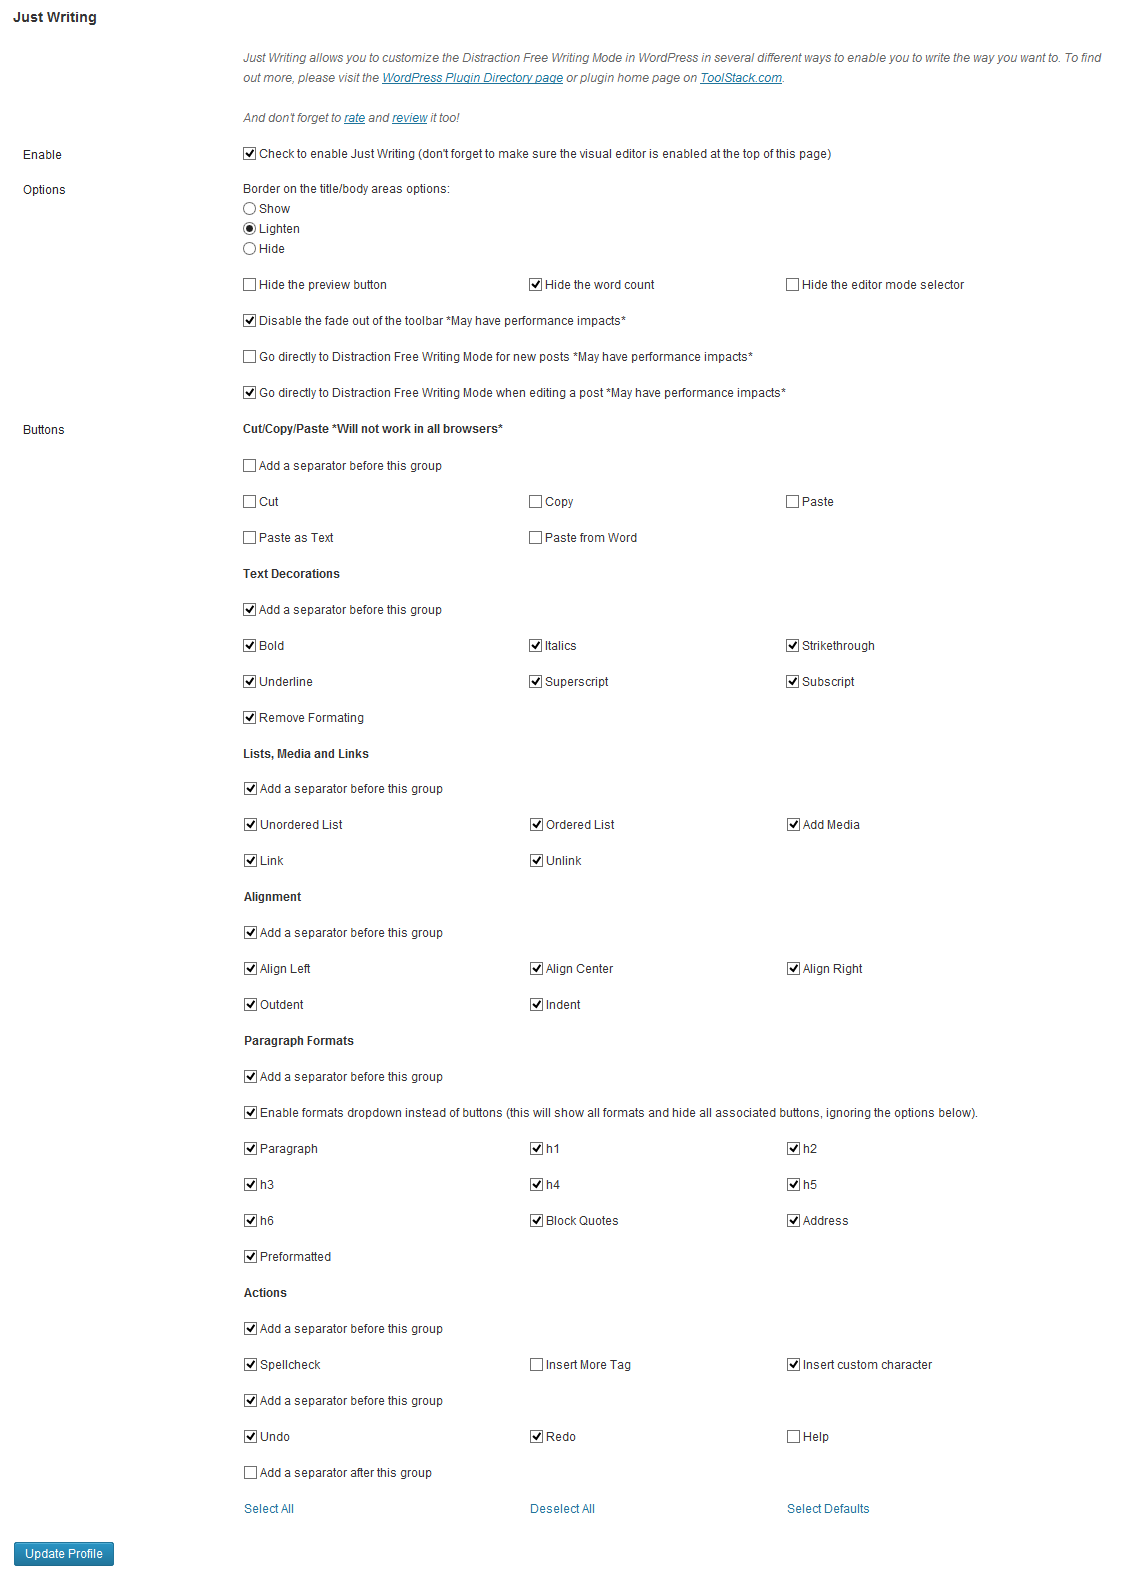
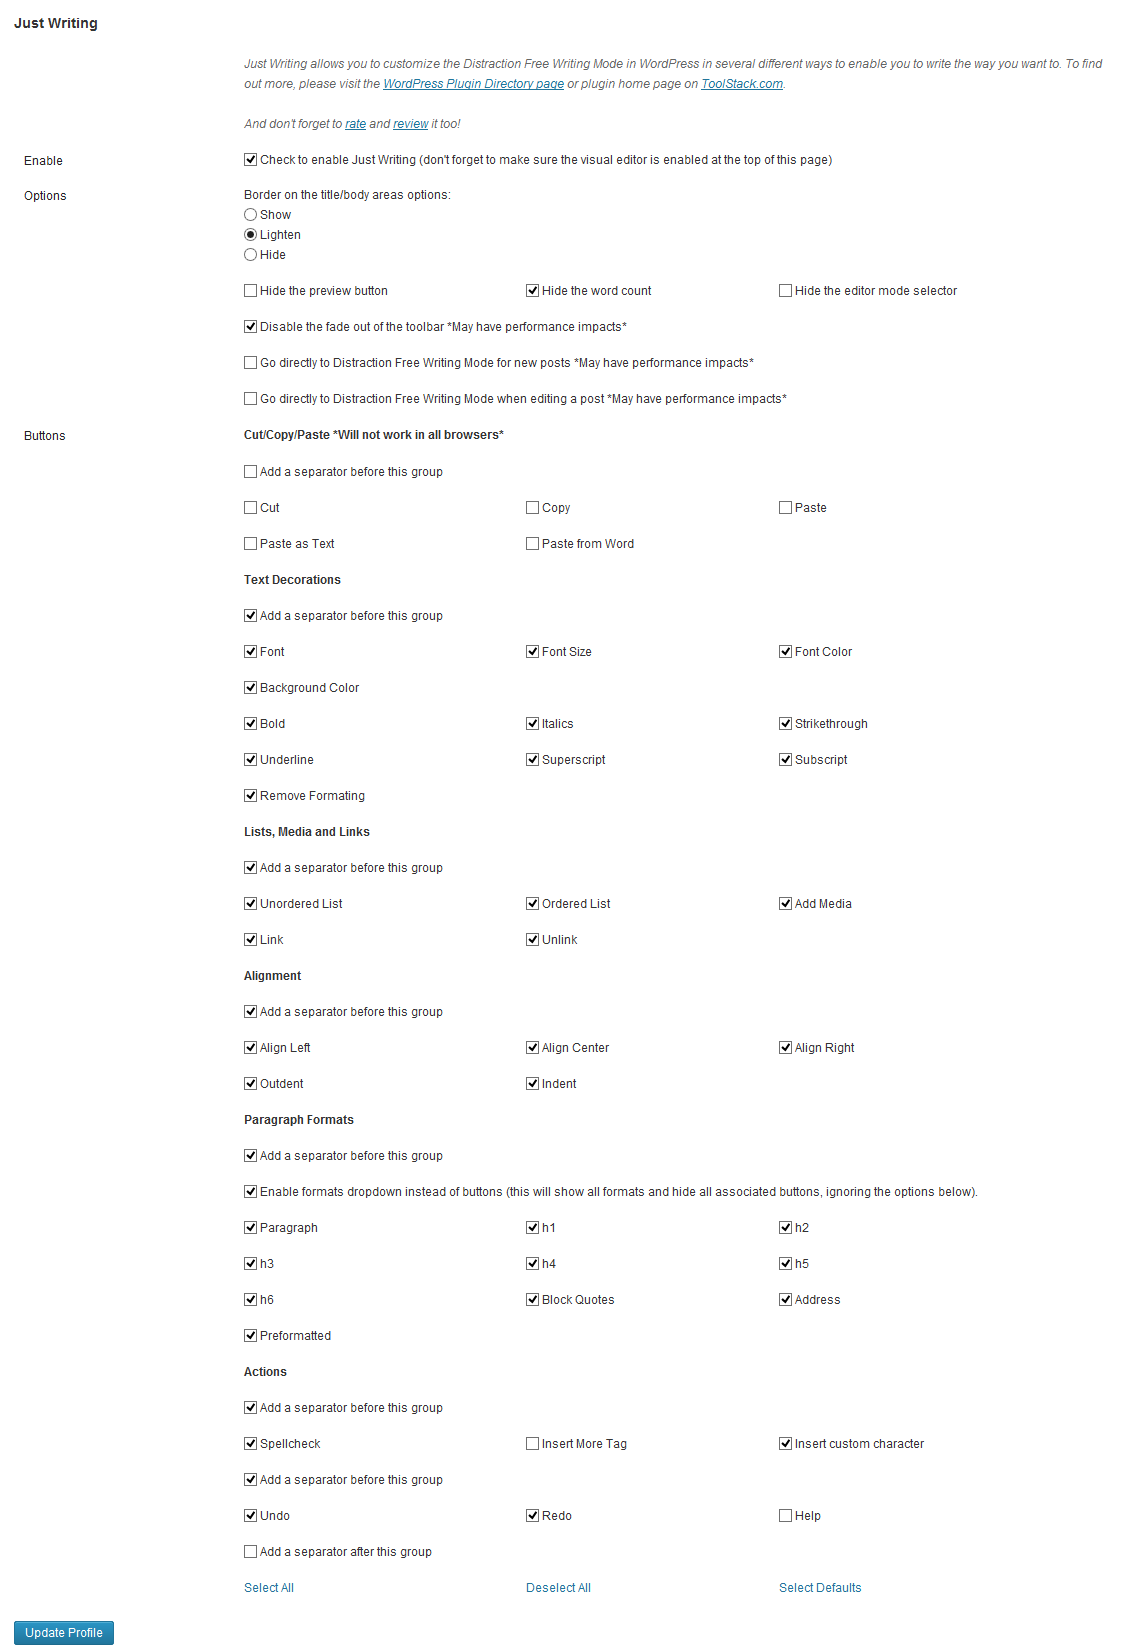
- completed adding support for font, size and color options

diff --git a/just-writing.js b/just-writing.js
@@ -136,7 +136,7 @@ function JustWriting()
 			{
 			(	function($) 
 					{
-					$('#wp_fs_Paragraph').replaceWith( "<select style='margin-left: 5px; margin-right: 5px;' name=JustWritingFormats id=JustWritingFormats onchange=JustWritingFormatSelectChange()><option>Paragraph</option><option>Address</option><option>Block Quotes</option><option>Preformatted</option><option>Heading 1</option><option>Heading 2</option><option>Heading 3</option><option>Heading 4</option><option>Heading 5</option><option>Heading 6</option></select>" );
+					$('#wp_fs_Paragraph').replaceWith( "<select style='margin-left: 5px; margin-right: 5px;' name=JustWritingFormats id=JustWritingFormats onchange=JustWritingFormatSelectChange()><option>[Style]</option><option>Paragraph</option><option>Address</option><option>Block Quotes</option><option>Preformatted</option><option>Heading 1</option><option>Heading 2</option><option>Heading 3</option><option>Heading 4</option><option>Heading 5</option><option>Heading 6</option></select>" );
 					}(jQuery)
 			);
 			}
@@ -144,24 +144,31 @@ function JustWriting()
 		// Add the font listbox
 		(	function($) 
 				{
-				$('#wp_fs_fontselect').replaceWith( "<select style='margin-left: 5px; margin-right: 5px;' name=JustWritingFonts id=JustWritingFonts onchange=JustWritingFontSelectChange()><option>Andale Mono</option><option SELECTED>Arial</option><option>Arial Black</option><option>Book Antiqua</option><option>Comic Sans MS</option><option>Courier New</option><option>Georgia</option><option>Helvetica</option><option>Impact</option><option>Symbol</option><option>Tahoma</option><option>Terminal</option><option>Times New Roman</option><option>Trebuchet MS</option><option>Verdana</option><option>Webdings</option><option>Wingdings</option></select>" );
+				$('#wp_fs_fontselect').replaceWith( "<select style='margin-left: 5px; margin-right: 5px;' name=JustWritingFonts id=JustWritingFonts onchange=JustWritingFontSelectChange()><option>[Font]</option><option>Andale Mono</option><option>Arial</option><option>Arial Black</option><option>Book Antiqua</option><option>Comic Sans MS</option><option>Courier New</option><option>Georgia</option><option>Helvetica</option><option>Impact</option><option>Symbol</option><option>Tahoma</option><option>Terminal</option><option>Times New Roman</option><option>Trebuchet MS</option><option>Verdana</option><option>Webdings</option><option>Wingdings</option></select>" );
 				}(jQuery)
 		);
 		
 		// Add the font size listbox
 		(	function($) 
 				{
-				$('#wp_fs_fontsize').replaceWith( "<select style='margin-left: 5px; margin-right: 5px;' name=JustWritingFontSize id=JustWritingFontSize onchange=JustWritingFontSizeSelectChange()><option>6</option><option>8</option><option>10</option><option>12</option><option>14</option><option>16</option><option>18</option><option>20</option><option>22</option><option>24</option><option>28</option><option>32</option><option>36</option><option>40</option><option>44</option><option>48</option><option>52</option><option>62</option><option>72</option></select>" );
+				$('#wp_fs_fontsize').replaceWith( "<select style='margin-left: 5px; margin-right: 5px;' name=JustWritingFontSize id=JustWritingFontSize onchange=JustWritingFontSizeSelectChange()><option>[Font Size]</option><option>6</option><option>8</option><option>10</option><option>12</option><option>14</option><option>16</option><option>18</option><option>20</option><option>22</option><option>24</option><option>28</option><option>32</option><option>36</option><option>40</option><option>44</option><option>48</option><option>52</option><option>62</option><option>72</option></select>" );
 				}(jQuery)
 		);
 
 		// Add the font color listbox
 		(	function($) 
 				{
-				$('#wp_fs_fontcolor').replaceWith( "<select style='margin-left: 5px; margin-right: 5px;' name=JustWritingFontColor id=JustWritingFontColor onchange=JustWritingFontColorSelectChange()><option>Black</option><option>Blue</option><option>Blue (Dark)</option><option>Blue (Light)</option><option>Brown</option><option>Cyan</option><option>Green</option><option>Grey</option><option>Lime</option><option>Magenta</option><option>Maroon</option><option>Olive</option><option>Orange</option><option>Purple</option><option>Red</option><option>Silver</option><option>White</option><option>Yellow</option></select>" );
+				$('#wp_fs_fontcolor').replaceWith( "<select style='margin-left: 5px; margin-right: 5px;' name=JustWritingFontColor id=JustWritingFontColor onchange=JustWritingFontColorSelectChange()><option>[Font Color]</option><option>Black</option><option>Blue</option><option>Blue (Dark)</option><option>Blue (Light)</option><option>Brown</option><option>Cyan</option><option>Green</option><option>Grey</option><option>Lime</option><option>Magenta</option><option>Maroon</option><option>Olive</option><option>Orange</option><option>Purple</option><option>Red</option><option>Silver</option><option>White</option><option>Yellow</option></select>" );
 				}(jQuery)
 		);
 
+		// Add the background color listbox
+		(	function($) 
+				{
+				$('#wp_fs_backgroundcolor').replaceWith( "<select style='margin-left: 5px; margin-right: 5px;' name=JustWritingBackgroundColor id=JustWritingBackgroundColor onchange=JustWritingBackgroundColorSelectChange()><option>[BG Color]</option><option>Black</option><option>Blue</option><option>Blue (Dark)</option><option>Blue (Light)</option><option>Brown</option><option>Cyan</option><option>Green</option><option>Grey</option><option>Lime</option><option>Magenta</option><option>Maroon</option><option>Olive</option><option>Orange</option><option>Purple</option><option>Red</option><option>Silver</option><option>White</option><option>Yellow</option></select>" );
+				}(jQuery)
+		);
+		
 		var marginside = 'margin-left';
 		if( rtl == 1 )
 			{
@@ -231,98 +238,129 @@ function JustWriting()
 
 function JustWritingFormatSelectChange()
 {
-	var FormatListbox = document.getElementById('JustWritingFormats');
-	var index = FormatListbox.selectedIndex;
+	var Listbox = document.getElementById('JustWritingFormats');
+	var index = Listbox.selectedIndex;
 	
-	if( index == 0 ) { tinyMCE.execCommand('FormatBlock', false, 'p'); }
-	if( index == 1 ) { tinyMCE.execCommand('FormatBlock', false, 'address'); }
-	if( index == 2 ) { fullscreen.blockquote(); }
-	if( index == 3 ) { tinyMCE.execCommand('FormatBlock', false, 'pre'); }
-	if( index == 4 ) { tinyMCE.execCommand('FormatBlock', false, 'h1'); }
-	if( index == 5 ) { tinyMCE.execCommand('FormatBlock', false, 'h2'); }
-	if( index == 6 ) { tinyMCE.execCommand('FormatBlock', false, 'h3'); }
-	if( index == 7 ) { tinyMCE.execCommand('FormatBlock', false, 'h4'); }
-	if( index == 8 ) { tinyMCE.execCommand('FormatBlock', false, 'h5'); }
-	if( index == 9 ) { tinyMCE.execCommand('FormatBlock', false, 'h6'); }
+	if( index == 1 ) { tinyMCE.execCommand('FormatBlock', false, 'p'); }
+	if( index == 2 ) { tinyMCE.execCommand('FormatBlock', false, 'address'); }
+	if( index == 3 ) { fullscreen.blockquote(); }
+	if( index == 4 ) { tinyMCE.execCommand('FormatBlock', false, 'pre'); }
+	if( index == 5 ) { tinyMCE.execCommand('FormatBlock', false, 'h1'); }
+	if( index == 6 ) { tinyMCE.execCommand('FormatBlock', false, 'h2'); }
+	if( index == 7 ) { tinyMCE.execCommand('FormatBlock', false, 'h3'); }
+	if( index == 8 ) { tinyMCE.execCommand('FormatBlock', false, 'h4'); }
+	if( index == 9 ) { tinyMCE.execCommand('FormatBlock', false, 'h5'); }
+	if( index == 10 ) { tinyMCE.execCommand('FormatBlock', false, 'h6'); }
 	
+	Listbox.selectedIndex = 0;	
 }
 
 function JustWritingFontSelectChange()
 {
-	var FontsListbox = document.getElementById('JustWritingFonts');
-	var index = FontsListbox.selectedIndex;
+	var Listbox = document.getElementById('JustWritingFonts');
+	var index = Listbox.selectedIndex;
 	
-	if( index == 0 ) { tinyMCE.execCommand('FontName', false, 'Andale Mono'); }
-	if( index == 1 ) { tinyMCE.execCommand('FontName', false, 'Arial'); }
-	if( index == 2 ) { tinyMCE.execCommand('FontName', false, 'Arial Black'); }
-	if( index == 3 ) { tinyMCE.execCommand('FontName', false, 'Book Antiqua'); }
-	if( index == 4 ) { tinyMCE.execCommand('FontName', false, 'Comic Sans MS'); }
-	if( index == 5 ) { tinyMCE.execCommand('FontName', false, 'Courier New'); }
-	if( index == 6 ) { tinyMCE.execCommand('FontName', false, 'Georgia'); }
-	if( index == 7 ) { tinyMCE.execCommand('FontName', false, 'Helvetica'); }
-	if( index == 8 ) { tinyMCE.execCommand('FontName', false, 'Impact'); }
-	if( index == 9 ) { tinyMCE.execCommand('FontName', false, 'Symbol'); }
-	if( index == 10 ) { tinyMCE.execCommand('FontName', false, 'Tahoma'); }
-	if( index == 11 ) { tinyMCE.execCommand('FontName', false, 'Terminal'); }
-	if( index == 12 ) { tinyMCE.execCommand('FontName', false, 'Times New Roman'); }
-	if( index == 13 ) { tinyMCE.execCommand('FontName', false, 'Trebuchet MS'); }
-	if( index == 14 ) { tinyMCE.execCommand('FontName', false, 'Verdana'); }
-	if( index == 15 ) { tinyMCE.execCommand('FontName', false, 'Webdings'); }
-	if( index == 16 ) { tinyMCE.execCommand('FontName', false, 'Wingdings'); }
+	if( index == 1 ) { tinyMCE.execCommand('FontName', false, 'Andale Mono'); }
+	if( index == 2 ) { tinyMCE.execCommand('FontName', false, 'Arial'); }
+	if( index == 3 ) { tinyMCE.execCommand('FontName', false, 'Arial Black'); }
+	if( index == 4 ) { tinyMCE.execCommand('FontName', false, 'Book Antiqua'); }
+	if( index == 5 ) { tinyMCE.execCommand('FontName', false, 'Comic Sans MS'); }
+	if( index == 6 ) { tinyMCE.execCommand('FontName', false, 'Courier New'); }
+	if( index == 7 ) { tinyMCE.execCommand('FontName', false, 'Georgia'); }
+	if( index == 8 ) { tinyMCE.execCommand('FontName', false, 'Helvetica'); }
+	if( index == 9 ) { tinyMCE.execCommand('FontName', false, 'Impact'); }
+	if( index == 10 ) { tinyMCE.execCommand('FontName', false, 'Symbol'); }
+	if( index == 11 ) { tinyMCE.execCommand('FontName', false, 'Tahoma'); }
+	if( index == 12 ) { tinyMCE.execCommand('FontName', false, 'Terminal'); }
+	if( index == 13 ) { tinyMCE.execCommand('FontName', false, 'Times New Roman'); }
+	if( index == 14 ) { tinyMCE.execCommand('FontName', false, 'Trebuchet MS'); }
+	if( index == 15 ) { tinyMCE.execCommand('FontName', false, 'Verdana'); }
+	if( index == 16 ) { tinyMCE.execCommand('FontName', false, 'Webdings'); }
+	if( index == 17 ) { tinyMCE.execCommand('FontName', false, 'Wingdings'); }
 	
+	Listbox.selectedIndex = 0;	
 }
 
 function JustWritingFontSizeSelectChange()
 {
-	var FontSizeListbox = document.getElementById('JustWritingFontSize');
-	var index = FontSizeListbox.selectedIndex;
+	var Listbox = document.getElementById('JustWritingFontSize');
+	var index = Listbox.selectedIndex;
 	
-	if( index == 0 ) { tinyMCE.execCommand('FontSize', false, '6'); }
-	if( index == 1 ) { tinyMCE.execCommand('FontSize', false, '8'); }
-	if( index == 2 ) { tinyMCE.execCommand('FontSize', false, '10'); }
-	if( index == 3 ) { tinyMCE.execCommand('FontSize', false, '12'); }
-	if( index == 4 ) { tinyMCE.execCommand('FontSize', false, '14'); }
-	if( index == 5 ) { tinyMCE.execCommand('FontSize', false, '16'); }
-	if( index == 6 ) { tinyMCE.execCommand('FontSize', false, '18'); }
-	if( index == 7 ) { tinyMCE.execCommand('FontSize', false, '20'); }
-	if( index == 8 ) { tinyMCE.execCommand('FontSize', false, '22'); }
-	if( index == 9 ) { tinyMCE.execCommand('FontSize', false, '24'); }
-	if( index == 10 ) { tinyMCE.execCommand('FontSize', false, '28'); }
-	if( index == 11 ) { tinyMCE.execCommand('FontSize', false, '32'); }
-	if( index == 12 ) { tinyMCE.execCommand('FontSize', false, '36'); }
-	if( index == 13 ) { tinyMCE.execCommand('FontSize', false, '40'); }
-	if( index == 14 ) { tinyMCE.execCommand('FontSize', false, '44'); }
-	if( index == 15 ) { tinyMCE.execCommand('FontSize', false, '48'); }
-	if( index == 16 ) { tinyMCE.execCommand('FontSize', false, '52'); }
-	if( index == 17 ) { tinyMCE.execCommand('FontSize', false, '62'); }
-	if( index == 18 ) { tinyMCE.execCommand('FontSize', false, '72'); }
+	if( index == 1 ) { tinyMCE.execCommand('FontSize', false, '6'); }
+	if( index == 2 ) { tinyMCE.execCommand('FontSize', false, '8'); }
+	if( index == 3 ) { tinyMCE.execCommand('FontSize', false, '10'); }
+	if( index == 4 ) { tinyMCE.execCommand('FontSize', false, '12'); }
+	if( index == 5 ) { tinyMCE.execCommand('FontSize', false, '14'); }
+	if( index == 6 ) { tinyMCE.execCommand('FontSize', false, '16'); }
+	if( index == 7 ) { tinyMCE.execCommand('FontSize', false, '18'); }
+	if( index == 8 ) { tinyMCE.execCommand('FontSize', false, '20'); }
+	if( index == 9 ) { tinyMCE.execCommand('FontSize', false, '22'); }
+	if( index == 10 ) { tinyMCE.execCommand('FontSize', false, '24'); }
+	if( index == 11 ) { tinyMCE.execCommand('FontSize', false, '28'); }
+	if( index == 12 ) { tinyMCE.execCommand('FontSize', false, '32'); }
+	if( index == 13 ) { tinyMCE.execCommand('FontSize', false, '36'); }
+	if( index == 14 ) { tinyMCE.execCommand('FontSize', false, '40'); }
+	if( index == 15 ) { tinyMCE.execCommand('FontSize', false, '44'); }
+	if( index == 16 ) { tinyMCE.execCommand('FontSize', false, '48'); }
+	if( index == 17 ) { tinyMCE.execCommand('FontSize', false, '52'); }
+	if( index == 18 ) { tinyMCE.execCommand('FontSize', false, '62'); }
+	if( index == 19 ) { tinyMCE.execCommand('FontSize', false, '72'); }
 
+	Listbox.selectedIndex = 0;	
 }
 
 function JustWritingFontColorSelectChange()
 {
-	var FontColorListbox = document.getElementById('JustWritingFontColor');
-	var index = FontColorListbox.selectedIndex;
+	var Listbox = document.getElementById('JustWritingFontColor');
+	var index = Listbox.selectedIndex;
 	
-	if( index == 0 ) { tinyMCE.execCommand('ForeColor', false, '#000000'); }
-	if( index == 1 ) { tinyMCE.execCommand('ForeColor', false, '#0000FF'); }
-	if( index == 2 ) { tinyMCE.execCommand('ForeColor', false, '#0000A0'); }
-	if( index == 3 ) { tinyMCE.execCommand('ForeColor', false, '#ADD8E6'); }
-	if( index == 4 ) { tinyMCE.execCommand('ForeColor', false, '#A52A2A'); }
-	if( index == 5 ) { tinyMCE.execCommand('ForeColor', false, '#00FFFF'); }
-	if( index == 6 ) { tinyMCE.execCommand('ForeColor', false, '#008000'); }
-	if( index == 7 ) { tinyMCE.execCommand('ForeColor', false, '#808080'); }
-	if( index == 8 ) { tinyMCE.execCommand('ForeColor', false, '#00FF00'); }
-	if( index == 9 ) { tinyMCE.execCommand('ForeColor', false, '#FF00FF'); }
-	if( index == 10 ) { tinyMCE.execCommand('ForeColor', false, '#800000'); }
-	if( index == 11 ) { tinyMCE.execCommand('ForeColor', false, '#808000'); }
-	if( index == 12 ) { tinyMCE.execCommand('ForeColor', false, '#FFA500'); }
-	if( index == 13 ) { tinyMCE.execCommand('ForeColor', false, '#800080'); }
-	if( index == 14 ) { tinyMCE.execCommand('ForeColor', false, '#FF0000'); }
-	if( index == 15 ) { tinyMCE.execCommand('ForeColor', false, '#C0C0C0'); }
-	if( index == 16 ) { tinyMCE.execCommand('ForeColor', false, '#FFFFFF'); }
-	if( index == 17 ) { tinyMCE.execCommand('ForeColor', false, '#FFFF00'); }
+	if( index == 1 ) { tinyMCE.execCommand('ForeColor', false, '#000000'); }
+	if( index == 2 ) { tinyMCE.execCommand('ForeColor', false, '#0000FF'); }
+	if( index == 3 ) { tinyMCE.execCommand('ForeColor', false, '#0000A0'); }
+	if( index == 4 ) { tinyMCE.execCommand('ForeColor', false, '#ADD8E6'); }
+	if( index == 5 ) { tinyMCE.execCommand('ForeColor', false, '#A52A2A'); }
+	if( index == 6 ) { tinyMCE.execCommand('ForeColor', false, '#00FFFF'); }
+	if( index == 7 ) { tinyMCE.execCommand('ForeColor', false, '#008000'); }
+	if( index == 8 ) { tinyMCE.execCommand('ForeColor', false, '#808080'); }
+	if( index == 9 ) { tinyMCE.execCommand('ForeColor', false, '#00FF00'); }
+	if( index == 10 ) { tinyMCE.execCommand('ForeColor', false, '#FF00FF'); }
+	if( index == 11 ) { tinyMCE.execCommand('ForeColor', false, '#800000'); }
+	if( index == 12 ) { tinyMCE.execCommand('ForeColor', false, '#808000'); }
+	if( index == 13 ) { tinyMCE.execCommand('ForeColor', false, '#FFA500'); }
+	if( index == 14 ) { tinyMCE.execCommand('ForeColor', false, '#800080'); }
+	if( index == 15 ) { tinyMCE.execCommand('ForeColor', false, '#FF0000'); }
+	if( index == 16 ) { tinyMCE.execCommand('ForeColor', false, '#C0C0C0'); }
+	if( index == 17 ) { tinyMCE.execCommand('ForeColor', false, '#FFFFFF'); }
+	if( index == 18 ) { tinyMCE.execCommand('ForeColor', false, '#FFFF00'); }
 
+	Listbox.selectedIndex = 0;	
+}
+
+function JustWritingBackgroundColorSelectChange()
+{
+	var Listbox = document.getElementById('JustWritingBackgroundColor');
+	var index = Listbox.selectedIndex;
+	
+	if( index == 1 ) { tinyMCE.execCommand('hiliteColor', false, '#000000'); }
+	if( index == 2 ) { tinyMCE.execCommand('hiliteColor', false, '#0000FF'); }
+	if( index == 3 ) { tinyMCE.execCommand('hiliteColor', false, '#0000A0'); }
+	if( index == 4 ) { tinyMCE.execCommand('hiliteColor', false, '#ADD8E6'); }
+	if( index == 5 ) { tinyMCE.execCommand('hiliteColor', false, '#A52A2A'); }
+	if( index == 6 ) { tinyMCE.execCommand('hiliteColor', false, '#00FFFF'); }
+	if( index == 7 ) { tinyMCE.execCommand('hiliteColor', false, '#008000'); }
+	if( index == 8 ) { tinyMCE.execCommand('hiliteColor', false, '#808080'); }
+	if( index == 9 ) { tinyMCE.execCommand('hiliteColor', false, '#00FF00'); }
+	if( index == 10 ) { tinyMCE.execCommand('hiliteColor', false, '#FF00FF'); }
+	if( index == 11 ) { tinyMCE.execCommand('hiliteColor', false, '#800000'); }
+	if( index == 12 ) { tinyMCE.execCommand('hiliteColor', false, '#808000'); }
+	if( index == 13 ) { tinyMCE.execCommand('hiliteColor', false, '#FFA500'); }
+	if( index == 14 ) { tinyMCE.execCommand('hiliteColor', false, '#800080'); }
+	if( index == 15 ) { tinyMCE.execCommand('hiliteColor', false, '#FF0000'); }
+	if( index == 16 ) { tinyMCE.execCommand('hiliteColor', false, '#C0C0C0'); }
+	if( index == 17 ) { tinyMCE.execCommand('hiliteColor', false, '#FFFFFF'); }
+	if( index == 18 ) { tinyMCE.execCommand('hiliteColor', false, '#FFFF00'); }
+
+	Listbox.selectedIndex = 0;	
 }
 
 function JustWritingMoveMouse()

diff --git a/just-writing-options.js b/just-writing-options.js
@@ -50,6 +50,7 @@ function JustWritingSelectAll()
 	document.getElementById('just_writing_f_n').checked=true;
 	document.getElementById('just_writing_f_s').checked=true;
 	document.getElementById('just_writing_f_c').checked=true;
+	document.getElementById('just_writing_b_c').checked=true;
 }
 
 function JustWritingDeSelectAll()
@@ -104,6 +105,7 @@ function JustWritingDeSelectAll()
 	document.getElementById('just_writing_f_n').checked=false;
 	document.getElementById('just_writing_f_s').checked=false;
 	document.getElementById('just_writing_f_c').checked=false;
+	document.getElementById('just_writing_b_c').checked=false;
 }
 
 function JustWritingSelectDefaults()
@@ -158,4 +160,5 @@ function JustWritingSelectDefaults()
 	document.getElementById('just_writing_f_n').checked=false;
 	document.getElementById('just_writing_f_s').checked=false;
 	document.getElementById('just_writing_f_c').checked=false;
+	document.getElementById('just_writing_b_c').checked=false;
 }

diff --git a/just-writing-options.php b/just-writing-options.php
@@ -84,6 +84,7 @@ function just_writing_save_user_profile_fields( $user_id )
 	update_user_meta( $user_id, 'just_writing_f_n', just_writing_get_checked_state( $_POST['just_writing_f_n'] ) );
 	update_user_meta( $user_id, 'just_writing_f_s', just_writing_get_checked_state( $_POST['just_writing_f_s'] ) );
 	update_user_meta( $user_id, 'just_writing_f_c', just_writing_get_checked_state( $_POST['just_writing_f_c'] ) );
+	update_user_meta( $user_id, 'just_writing_b_c', just_writing_get_checked_state( $_POST['just_writing_b_c'] ) );
 
 	//Deal with the border options
 	if( $_POST['just_writing_border_setting'] == 'hide' )
@@ -252,6 +253,13 @@ function just_writing_save_user_profile_fields( $user_id )
 			<td>
 			<input type="checkbox" id="just_writing_f_c" name="just_writing_f_c" <?php if( get_the_author_meta( 'just_writing_f_c', $user->ID ) == "on" ) { echo "CHECKED"; } ?>>
 			<?php echo __("Font Color");?>
+			</td>
+		</tr>
+		<tr>
+			<th></th>
+			<td colspan=3>
+			<input type="checkbox" id="just_writing_b_c" name="just_writing_b_c" <?php if( get_the_author_meta( 'just_writing_b_c', $user->ID ) == "on" ) { echo "CHECKED"; } ?>>
+			<?php echo __("Background Color");?>
 			</td>
 		</tr>
 		<tr>

diff --git a/just-writing.php b/just-writing.php
@@ -1,7 +1,7 @@
 <?php
 /*
 Plugin Name: Just Writing
-Version: 2.9
+Version: 2.10
 Plugin URI: http://toolstack.com/just-writing
 Author: Greg Ross
 Author URI: http://toolstack.com
@@ -96,7 +96,7 @@ if( !function_exists( 'JustWritingLoad' ) )
 				{
 				if( get_the_author_meta( 'just_writing_al_edit', $cuid ) == 'on' ) { $AutoLoad = 1; } 
 				}
-				
+	
 			// Register and enqueue the javascript.
 			wp_register_script( 'justwriting_js', plugins_url( '', __FILE__ )  . '/just-writing.js?rtl=' . is_rtl() . '&disablefade=' . $DisableFade . '&hidewordcount=' . $HideWordCount . '&hidepreview=' . $HidePreview . '&hideborder=' . $HideBorder . '&hidemodebar=' . $HideModeBar . '&autoload=' . $AutoLoad . '&formatlistbox=' . $FormatLB );
 			wp_enqueue_script( 'justwriting_js' );

diff --git a/just-writing-buttons.php b/just-writing-buttons.php
@@ -126,6 +126,18 @@
 								);
 			}
 
+		if( get_the_author_meta( 'just_writing_b_c', $cuid ) == 'on' )
+			{
+			$buttons['backgroundcolor'] = array( 
+									// Title of the button
+									'title' => __('Background Color'), 
+									// Command to execute
+									'onclick' => "tinyMCE.execCommand('BackColor', false, '#FFFFFF');",
+									// Show on visual AND html mode
+									'both' => false
+								);
+			}
+
 		if( get_the_author_meta( 'just_writing_bold', $cuid ) == 'on' )
 			{
 			$buttons['bold'] = array( 

diff --git a/just-writing-user-setup.php b/just-writing-user-setup.php
@@ -72,6 +72,7 @@ if( !function_exists( 'Just_Writing_User_Setup' ) )
 		update_user_meta( $user_id, 'just_writing_f_n', 'off' );
 		update_user_meta( $user_id, 'just_writing_f_s', 'off' );
 		update_user_meta( $user_id, 'just_writing_f_c', 'off' );
+		update_user_meta( $user_id, 'just_writing_b_c', 'off' );
 		}
 	}
 ?>
